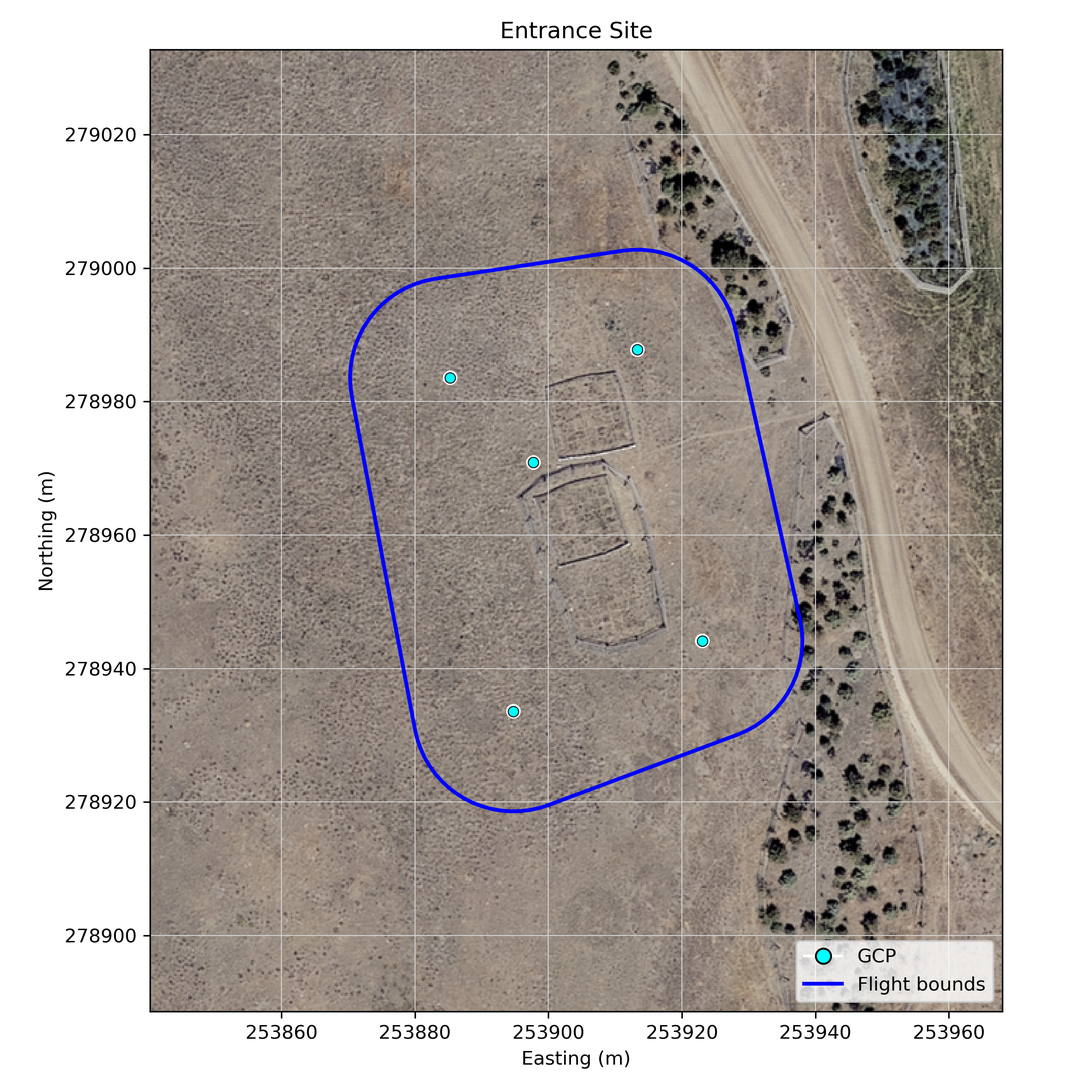
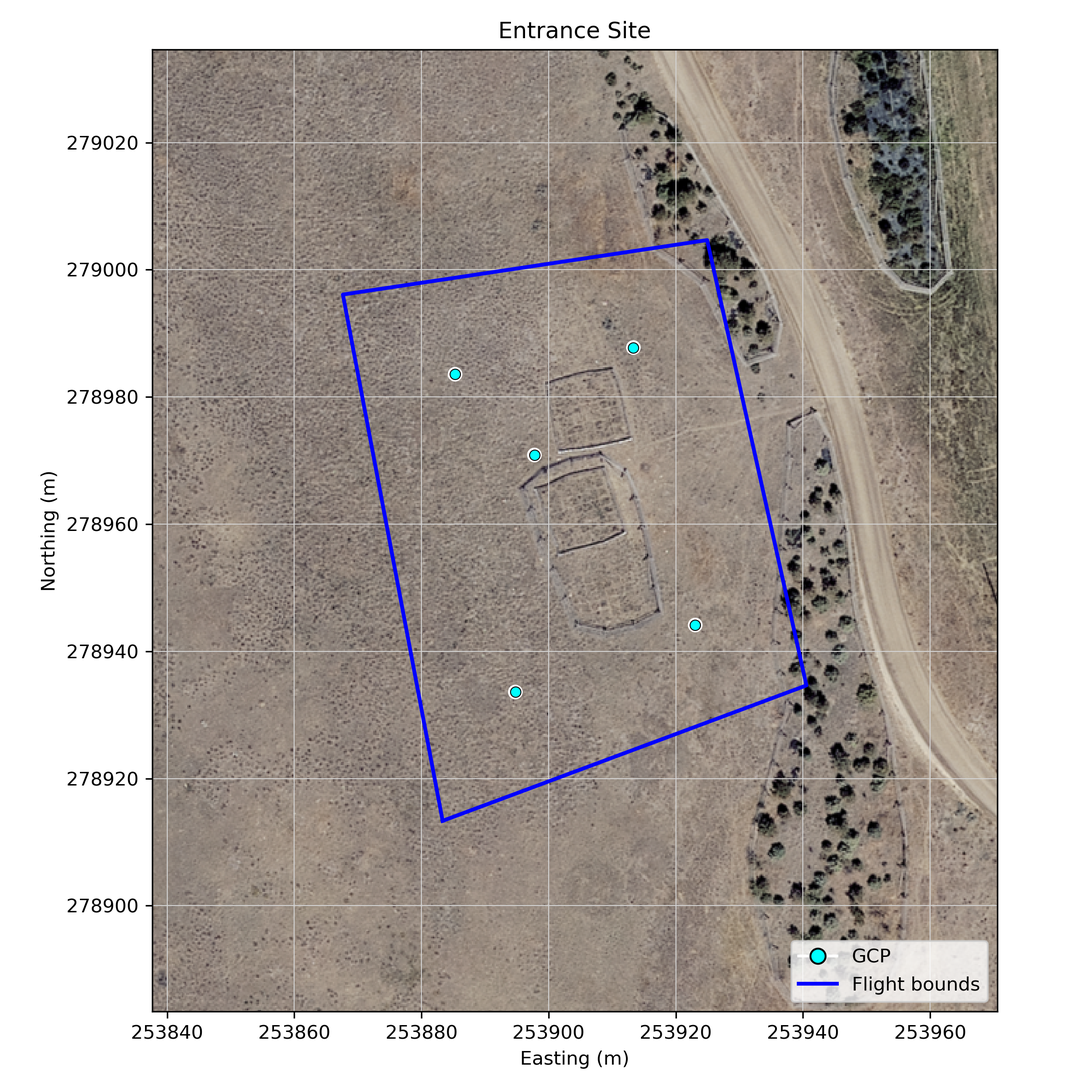
set square end caps for flight polys

diff --git a/00_make_survey_kmls.py b/00_make_survey_kmls.py
@@ -90,7 +90,7 @@ def main():
             print(f"Convex hull for site '{site_name}' is not a polygon (likely collinear points: {convex_hull_polygon.geom_type}). Skipping.")
             continue
 
-        buffered_polygon_utm = convex_hull_polygon.buffer(buffer_distance)
+        buffered_polygon_utm = convex_hull_polygon.buffer(buffer_distance, cap_style=3, join_style=2)
         
         if not buffered_polygon_utm.is_valid or buffered_polygon_utm.is_empty:
             print(f"Buffering for site '{site_name}' resulted in an invalid or empty geometry. Skipping.")
